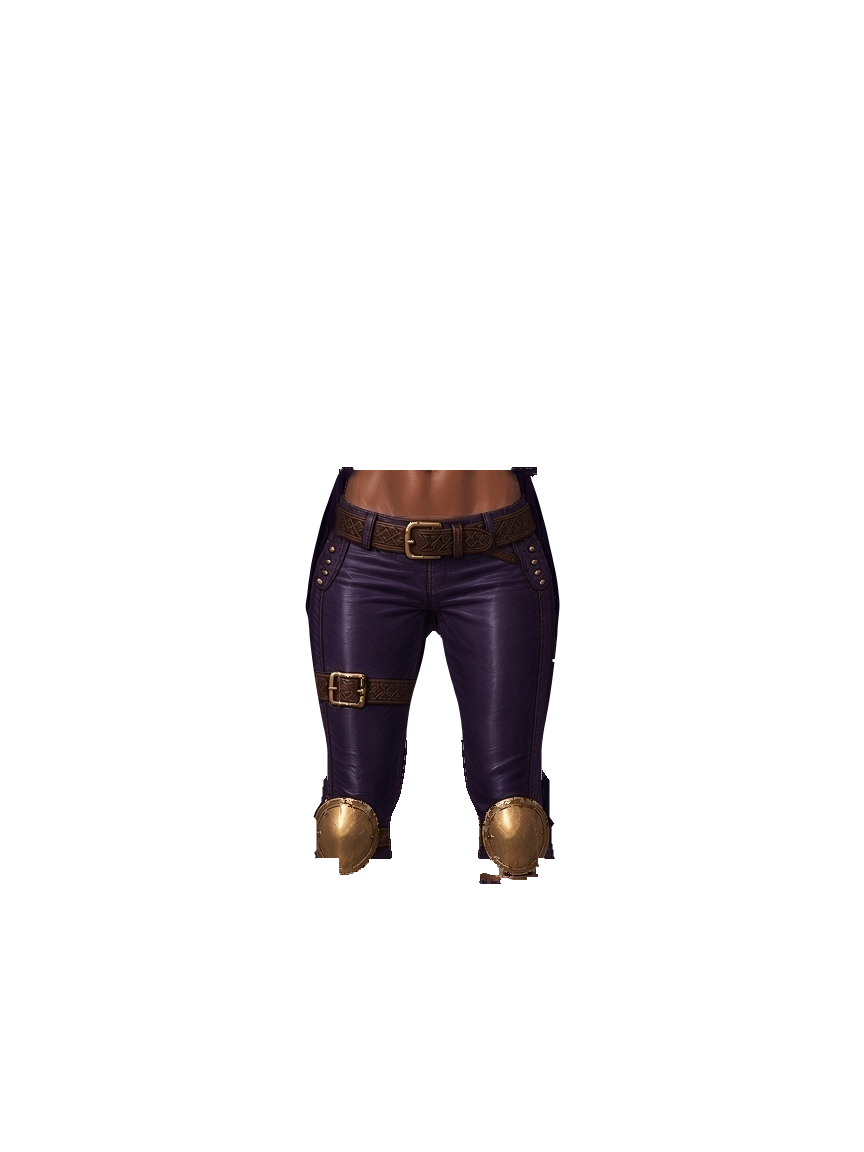
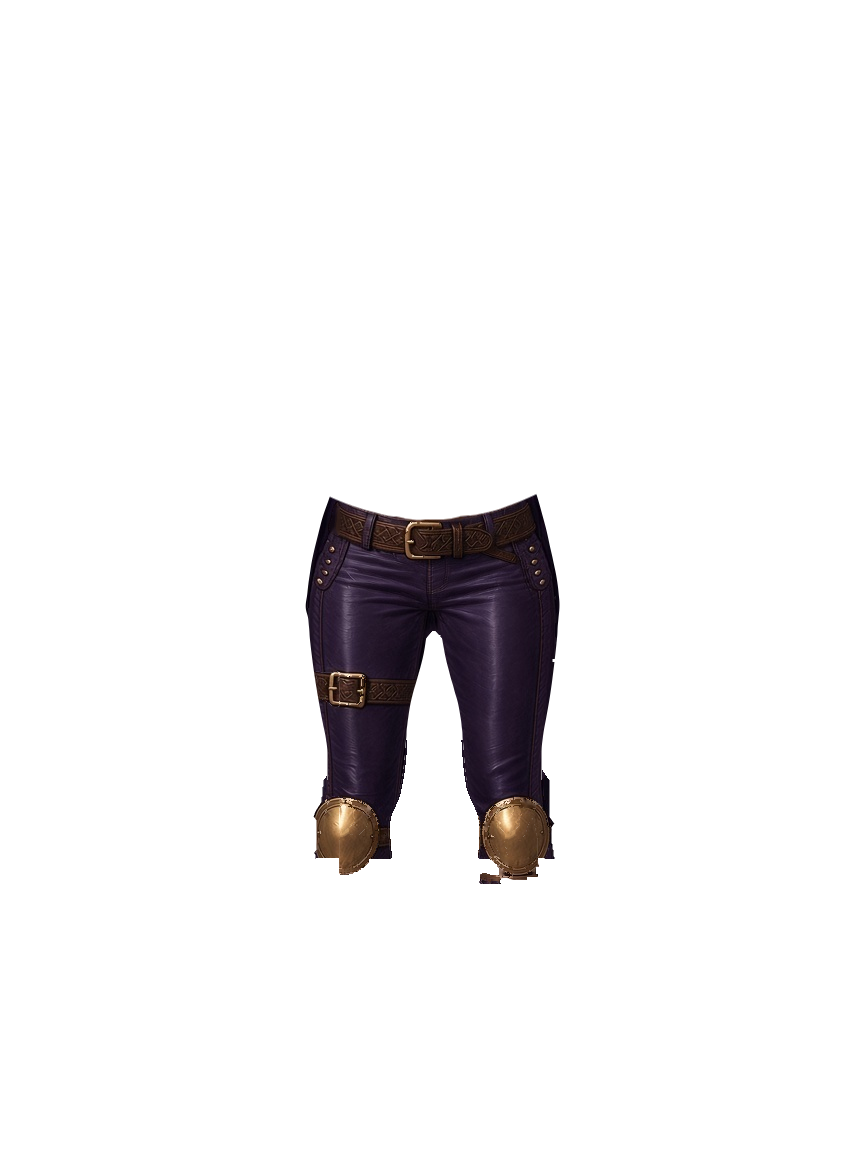
Tester: female purple/blue pants no longer paint the painting's own skin - cut everything above the waistband (darker skin band + hip slivers); female base lower midriff rebuilt from the purple painting's skin (navel-aligned, tone-matched, smoothed waist edge) so the lowered belt shows clean skin wi

Changed region(s): [[0.375, 0.4062, 0.625, 0.4688]]

diff --git a/dolltest/v5/layers.html b/dolltest/v5/layers.html
@@ -137,7 +137,7 @@
     let face = 1;      // 0 = original baked head, 1-10 = new head layers
     let hair = 1;      // 0 = none, 1-10
     // Bump this whenever layer PNGs change so iOS Safari does not keep stale tiles.
-    const LAYER_V = "20261118-purple-cuffs2";
+    const LAYER_V = "20261118-purple-midriff";
     const ONBASE = ["common", "masterwork", "green", "blue", "purple"];  // tiers cut from Art's on-base paintings
     // Tiers with hidden pants/boots underlaps (drawn only when both are on) so mixing
     // with another tier's boots or pants does not leave a strip of bare leg.
